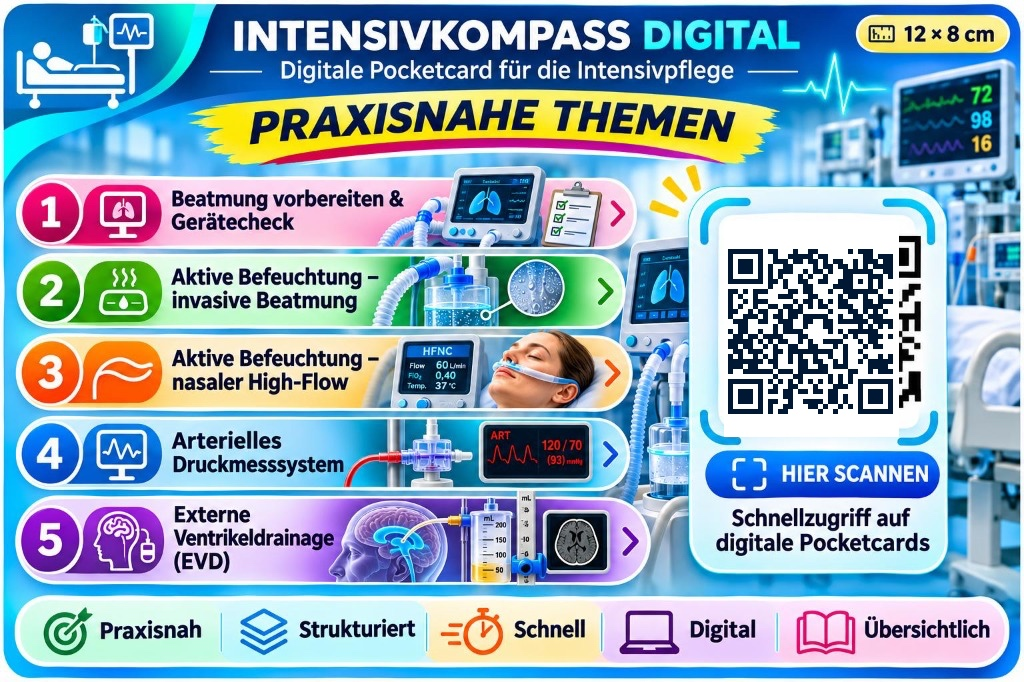
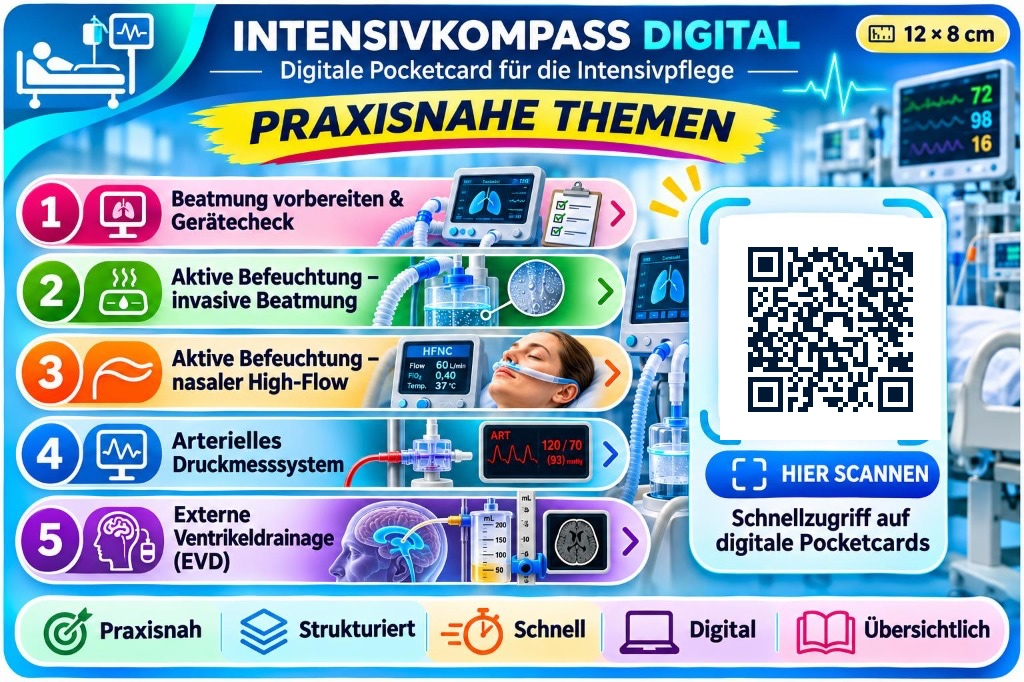
fix(universal-card): center QR code with exact symmetrical padding inside white card container

Changed region(s): [[0.6875, 0.3079, 0.9375, 0.6466]]

diff --git a/index.html b/index.html
@@ -28,7 +28,7 @@
   <link rel="stylesheet" href="https://cdn.jsdelivr.net/npm/bootstrap-icons@1.11.3/font/bootstrap-icons.min.css">
   
   <!-- Custom Stylesheet -->
-  <link rel="stylesheet" href="css/styles.css?v=20261105-03">
+  <link rel="stylesheet" href="css/styles.css?v=20261105-04">
 </head>
 <body>
   <!-- React App Root Container -->
@@ -52,10 +52,10 @@
   <script src="js/html2pdf.bundle.min.js"></script>
 
   <!-- Smart Parser Utility -->
-  <script src="js/parser.js?v=20261105-03"></script>
+  <script src="js/parser.js?v=20261105-04"></script>
 
   <!-- Main React App Script -->
-  <script type="text/babel" src="js/app.js?v=20261105-03"></script>
+  <script type="text/babel" src="js/app.js?v=20261105-04"></script>
 
   <!-- Service Worker Cleanup Script -->
   <script>
